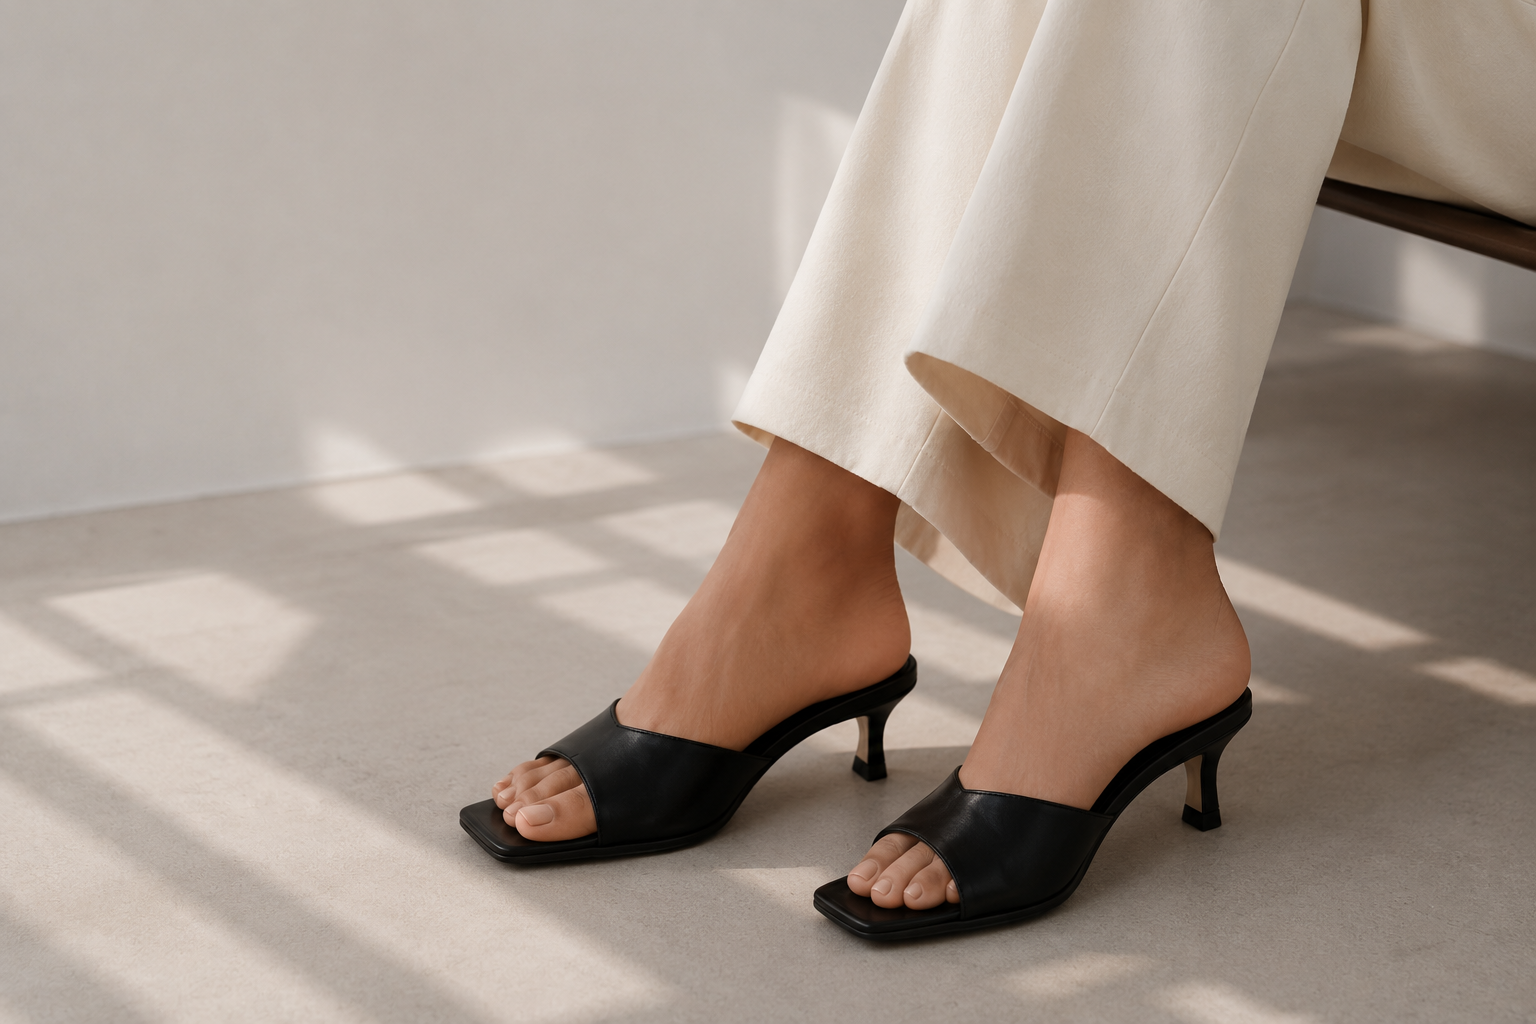
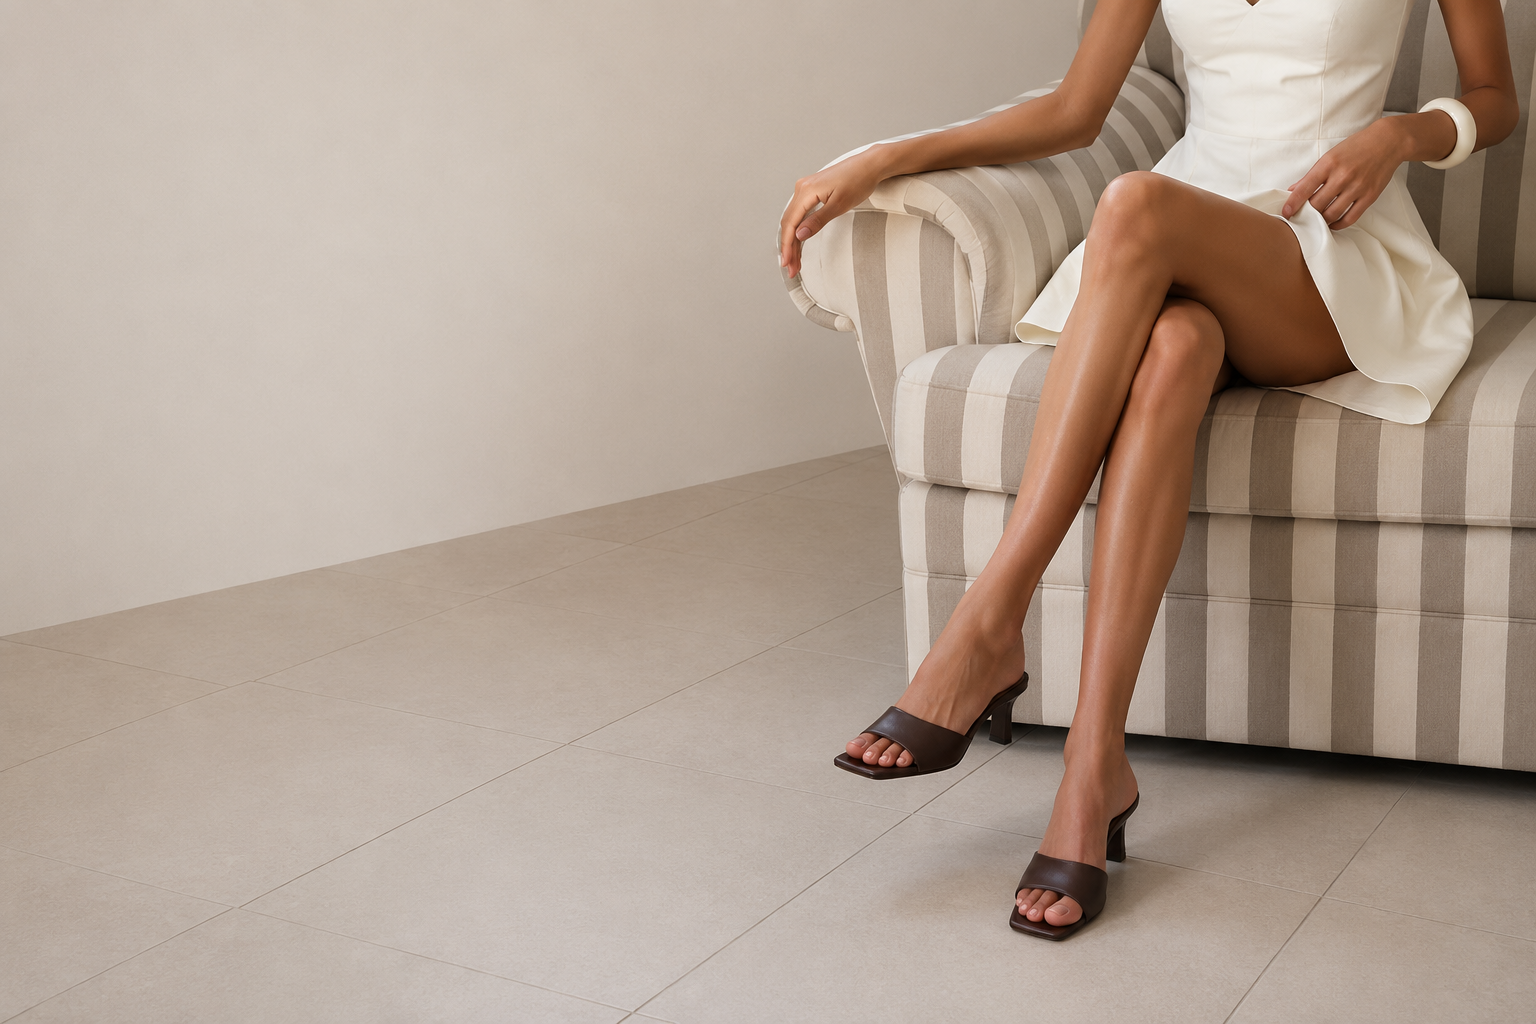
add filters for bags and accessories

diff --git a/src/components/products/filterConfig.ts b/src/components/products/filterConfig.ts
@@ -1,3 +1,4 @@
+import type { ProductPageFilter } from "@/components/ui/ProductsPageContent";
 import type { FilterDef, FilterOption, SortOption } from "./ProductFilters.types";
 import { deriveColourOptions, deriveMaterialOptions, deriveSeasonOptions } from "./deriveFilterOptions";
 
@@ -12,6 +13,22 @@ export const STYLE_OPTIONS: FilterOption[] = [
   { value: "SNEAKERS", label: "Sneakers" },
   { value: "BOOTS", label: "Boots" },
   { value: "FLATS", label: "Flats" },
+];
+
+// Same rationale as STYLE_OPTIONS above, but for the bags category.
+export const BAG_STYLE_OPTIONS: FilterOption[] = [
+  { value: "TOP_HANDLES", label: "Top handles" },
+  { value: "TOTES", label: "Totes" },
+  { value: "BACKPACKS", label: "Backpacks" },
+  { value: "BUCKETS", label: "Buckets" },
+];
+
+// Same rationale as STYLE_OPTIONS above, but for the accessories category.
+export const ACCESSORY_STYLE_OPTIONS: FilterOption[] = [
+  { value: "JEWELRY", label: "Jewelry" },
+  { value: "BELTS", label: "Belts" },
+  { value: "SUNGLASSES", label: "Sunglasses" },
+  { value: "WRAPS", label: "Wraps" },
 ];
 
 // Fixed EU size range 35–42, per store requirements — not derived from product data.
@@ -35,19 +52,34 @@ export const SORT_OPTIONS: { value: SortOption; label: string }[] = [
   { value: "featured", label: "Featured" },
 ];
 
-export const FILTER_DEFS: FilterDef[] = [
-  { key: "style", label: "Style", control: "checkbox-list-2col", getOptions: () => STYLE_OPTIONS },
-  { key: "size", label: "Size", control: "checkbox-list-2col", getOptions: () => SIZE_OPTIONS },
-  { key: "colour", label: "Colour", control: "checkbox-list-2col", getOptions: deriveColourOptions },
-  // Price has no discrete option list — PriceRangeControl derives min/max bounds
-  // directly from baseProducts, so getOptions is unused for this entry.
-  { key: "price", label: "Price", control: "price-range", getOptions: () => [] },
-  { key: "material", label: "Material", control: "checkbox-list", getOptions: deriveMaterialOptions },
-  { key: "season", label: "Season", control: "checkbox-list", getOptions: deriveSeasonOptions },
-  {
-    key: "discount",
-    label: "Discount",
-    control: "checkbox-list",
-    getOptions: () => DISCOUNT_TIERS.map(({ value, label }) => ({ value, label })),
-  },
-];
+// Bags and accessories have no sizes to filter by — the size range below is shoe-specific.
+const CATEGORIES_WITHOUT_SIZE: ProductPageFilter[] = ["bags", "accessories"];
+
+const STYLE_OPTIONS_BY_CATEGORY: Partial<Record<ProductPageFilter, FilterOption[]>> = {
+  bags: BAG_STYLE_OPTIONS,
+  accessories: ACCESSORY_STYLE_OPTIONS,
+};
+
+export function getFilterDefs(category: ProductPageFilter): FilterDef[] {
+  const hasSize = !CATEGORIES_WITHOUT_SIZE.includes(category);
+  const styleOptions = STYLE_OPTIONS_BY_CATEGORY[category] ?? STYLE_OPTIONS;
+
+  return [
+    { key: "style", label: "Style", control: "checkbox-list-2col", getOptions: () => styleOptions },
+    ...(hasSize
+      ? [{ key: "size" as const, label: "Size", control: "checkbox-list-2col" as const, getOptions: () => SIZE_OPTIONS }]
+      : []),
+    { key: "colour", label: "Colour", control: "checkbox-list-2col", getOptions: deriveColourOptions },
+    // Price has no discrete option list — PriceRangeControl derives min/max bounds
+    // directly from baseProducts, so getOptions is unused for this entry.
+    { key: "price", label: "Price", control: "price-range", getOptions: () => [] },
+    { key: "material", label: "Material", control: "checkbox-list", getOptions: deriveMaterialOptions },
+    { key: "season", label: "Season", control: "checkbox-list", getOptions: deriveSeasonOptions },
+    {
+      key: "discount",
+      label: "Discount",
+      control: "checkbox-list",
+      getOptions: () => DISCOUNT_TIERS.map(({ value, label }) => ({ value, label })),
+    },
+  ];
+}

diff --git a/src/components/products/ProductFilterBar.tsx b/src/components/products/ProductFilterBar.tsx
@@ -4,9 +4,10 @@ import { useEffect, useRef, useState } from "react";
 import { AnimatePresence } from "motion/react";
 import type { Product } from "@/shemas/product.shema";
 import { Container } from "@/components/ui/Container";
+import type { ProductPageFilter } from "@/components/ui/ProductsPageContent";
 import { useProductFilters } from "@/hooks/useProductFilters";
 import { DEFAULT_SORT } from "./ProductFilters.types";
-import { FILTER_DEFS, SORT_OPTIONS } from "./filterConfig";
+import { getFilterDefs, SORT_OPTIONS } from "./filterConfig";
 import { FilterDropdownButton } from "./FilterDropdownButton";
 import { SortByButton } from "./SortByButton";
 import { FilterPanel } from "./FilterPanel";
@@ -20,14 +21,17 @@ interface ProductFilterBarProps {
   baseProducts: Product[];
   filteredCount: number;
   isLoading?: boolean;
+  category: ProductPageFilter;
 }
 
-export function ProductFilterBar({ baseProducts, filteredCount, isLoading }: ProductFilterBarProps) {
+export function ProductFilterBar({ baseProducts, filteredCount, isLoading, category }: ProductFilterBarProps) {
   const [openKey, setOpenKey] = useState<OpenKey>(null);
   const containerRef = useRef<HTMLDivElement>(null);
 
   const { filters, sort, activeCount, totalActiveCount, toggleValue, setPriceRange, setSort, removeValue, clearAll } =
     useProductFilters();
+
+  const filterDefs = getFilterDefs(category);
 
   useEffect(() => {
     function handleClickOutside(e: MouseEvent) {
@@ -61,14 +65,14 @@ export function ProductFilterBar({ baseProducts, filteredCount, isLoading }: Pro
   const prices = baseProducts.map((p) => p.price);
   const priceBounds = prices.length > 0 ? { min: Math.min(...prices), max: Math.max(...prices) } : { min: 0, max: 0 };
 
-  const optionsByKey = Object.fromEntries(FILTER_DEFS.map((def) => [def.key, def.getOptions(baseProducts)]));
+  const optionsByKey = Object.fromEntries(filterDefs.map((def) => [def.key, def.getOptions(baseProducts)]));
 
-  const activeDef = FILTER_DEFS.find((def) => def.key === openKey);
+  const activeDef = filterDefs.find((def) => def.key === openKey);
 
   const sortLabel = sort === DEFAULT_SORT ? "Sort by" : (SORT_OPTIONS.find((o) => o.value === sort)?.label ?? "Sort by");
 
   const pins: FilterPin[] = [];
-  for (const def of FILTER_DEFS) {
+  for (const def of filterDefs) {
     if (def.key === "price") continue;
     const values = filters[def.key as MultiSelectFilterKey];
     for (const value of values) {
@@ -87,7 +91,7 @@ export function ProductFilterBar({ baseProducts, filteredCount, isLoading }: Pro
       <div className="relative">
         <Container>
           <div className="flex flex-wrap items-center gap-8 px-8 pt-6 pb-3.25">
-            {FILTER_DEFS.map((def) => (
+            {filterDefs.map((def) => (
               <FilterDropdownButton
                 key={def.key}
                 label={def.label}

diff --git a/src/components/ui/ProductsPageContent.tsx b/src/components/ui/ProductsPageContent.tsx
@@ -38,7 +38,7 @@ export function ProductsPageContent({ filter }: { filter: ProductPageFilter }) {
 
   return (
     <>
-      <ProductFilterBar baseProducts={baseProducts} filteredCount={products.length} isLoading={combinedLoading} />
+      <ProductFilterBar baseProducts={baseProducts} filteredCount={products.length} isLoading={combinedLoading} category={filter} />
       <ProductsGrid products={products} isLoading={isLoading} selectedColors={filters.colour} selectedSizes={filters.size} newestProductIds={newestProductIds} />
     </>
   );
